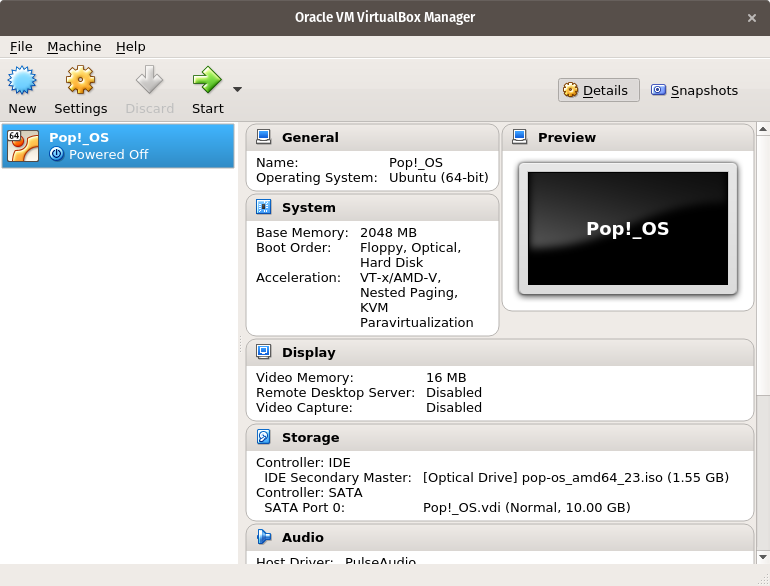
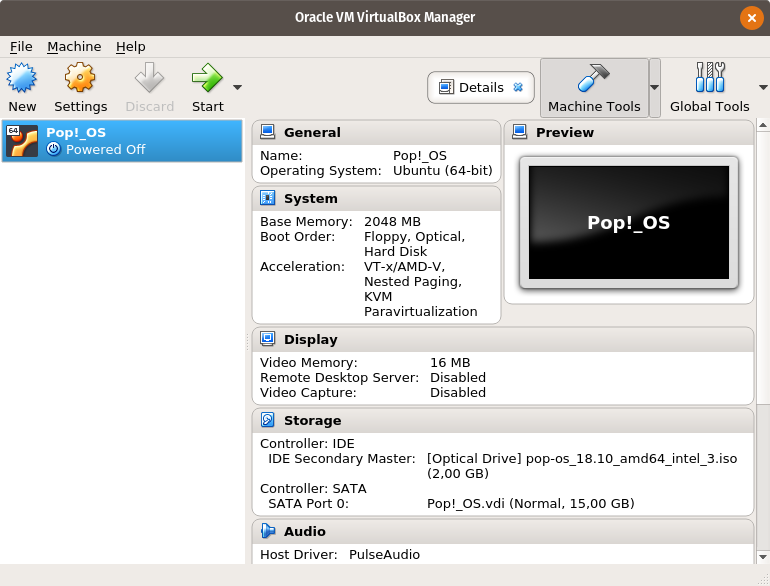
10 GB of disk space is too small

Changed region(s): [[0.0, 0.0922, 1.0, 0.9829], [0.9662, 0.0, 0.9974, 0.0614]]

diff --git a/docs/install-in-vm.md b/docs/install-in-vm.md
@@ -47,7 +47,7 @@ This dialog tells you how you want to grow the disk as you put content on it.  T
 
 ![Storage Device Name](/images/install-in-a-vm/disk_storage_size.png)
 
-Feel free to just pick the defaults here and click on the "Create" button.
+You have to select at least 15 GB, as the default 10 GB are too small. Then click on the "Create" button.
 
 ### Step 8
 
